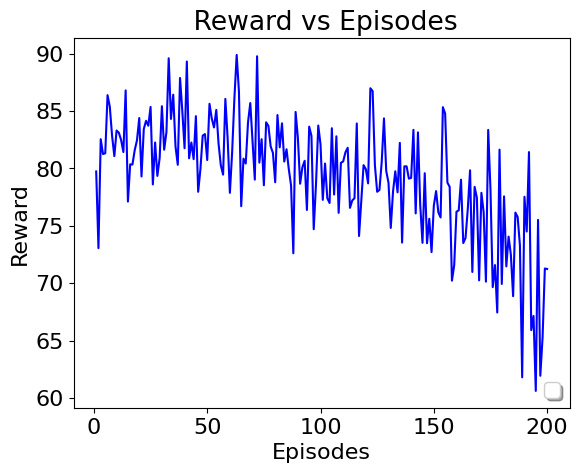
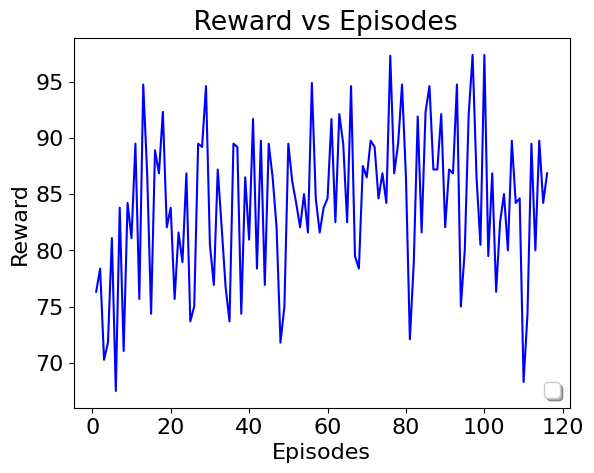
got good results by keeping the same graph during all the simulation, testing now for 600 steps/epi and 1600 end_time

diff --git a/Deep_QLearning_5G-master/view_results.py b/Deep_QLearning_5G-master/view_results.py
@@ -33,10 +33,14 @@ arrival_rate = "20"
 
 
 
-lost_r= [0.9635943347955631, 0.9639364955522162, 0.9583541990839156, 0.9630484665073595, 0.9665691099986501, 0.9634258210432834, 0.962947138627546, 0.9605807795436274, 0.9611619145500798, 0.964606163801482, 0.9629174908484893, 0.9641324454441789, 0.9631590996190776, 0.9625207824675401, 0.9652480249351258, 0.9626642604372606, 0.963296352650276, 0.9599739008366549, 0.9633715084109875, 0.9646056163625255, 0.9597369555284312, 0.9615778940798636, 0.9647218154443615, 0.9586525477351066, 0.9623772224014493, 0.9604195392690866, 0.9626235636256154, 0.9615493793703629, 0.963236199590829, 0.9609612566337582, 0.9625144703607895, 0.9648661852759469, 0.9649295399058254, 0.9605831228793025, 0.9620333000375806, 0.9612109938301611, 0.961915958675205, 0.9638390378837647, 0.9615252628821289, 0.9613409480734132, 0.9635345085009537, 0.9648615987576117, 0.9669946759140423, 0.962361954030914, 0.9662416037199812, 0.9579446064646129, 0.9664775312237356, 0.9649288772555198, 0.9627855792030059, 0.9645618626041254, 0.9644776631532832, 0.9659792858920428, 0.9602225541512417, 0.9642586952595583, 0.9610125019911014, 0.961488361798634, 0.9651547060970243, 0.9642970634481541, 0.9612981547314182, 0.960908632550447, 0.96213809951236, 0.9631768952695328, 0.9632300195991146, 0.9655341620561962, 0.9603049575542754, 0.962540345208385, 0.9660251050722866, 0.9636586185527558, 0.961895351267172, 0.9610892424347108, 0.9589419859486678, 0.9604280565317032, 0.9591661029346101, 0.9627577617279908, 0.9606973187393466, 0.9658829749180513, 0.96417301874081, 0.9633281137899083, 0.9599504210476403, 0.9647126454884625, 0.9676721752174745, 0.9621040122937993, 0.9645328195142328, 0.9661679849626392, 0.9622282627372718, 0.9620496971061632, 0.9611037950519362, 0.9609483898432447, 0.9624289198330374, 0.9648374692613976, 0.9614502394243402, 0.9618316247821722, 0.961567582691738, 0.9617587988632799, 0.9600278890148578, 0.9648274492295241, 0.9623526644490573, 0.9672046711979926, 0.9607444750433966, 0.9671846727861759]
+lost_r= [0.9685530744008225, 0.9614806783345682, 0.9641475740137646, 0.9601334401741869, 0.9683471364149451, 0.9654322357947753, 0.9685019419336854, 0.9614894456389519, 0.976397417444294, 0.9637358804546621, 0.9662393399261556, 0.9522540021784195, 0.9581715450049152, 0.9623470092011746, 0.9600146586290524, 0.9672471093554955, 0.9659797645575292, 0.9533208486779284, 0.9635349067279264, 0.9679367454403656, 0.9629044186807797, 0.963745017877416, 0.9609812230535408, 0.9621636274120198, 0.9622459901812522, 0.9671080720497194, 0.9607539586815321, 0.9606019853219597, 0.9668292842111431, 0.9629849184507706, 0.9482888905194478, 0.9652172897202544, 0.9606705405270763, 0.971437969574685, 0.9775822235396063, 0.9627549129067505, 0.9667167808769467, 0.963691253611363, 0.9626658019713241, 0.9689835233129882, 0.9567862355275405, 0.9689917478358401, 0.9662264991683405, 0.9666781046559003, 0.9657255804646053, 0.9707603026543892, 0.9656203405953406, 0.9573353322051411, 0.9662537089156696, 0.9603139957681971, 0.9613573401326122, 0.9619195638155803, 0.9636664671318547, 0.9610306442450989, 0.9636511986025751, 0.9720033448124393, 0.9543326340029611, 0.9705417007316591, 0.9615162678382629, 0.9586048800556629, 0.9588158720011237, 0.9668349810137291, 0.9565795007306692, 0.9744044598275626, 0.9720412262673508, 0.9612911524886995, 0.9668567645614902, 0.964467297961609, 0.9750830828515825, 0.9669722565655855, 0.9703001279698055, 0.9688440500662707, 0.9631605191469346, 0.9622199276684156, 0.968972581433355, 0.9629069967950223, 0.9577068155348935, 0.9659662272390073, 0.9679045465618716, 0.9575660081734186, 0.9647677796530183, 0.9633403055089154, 0.9648140593011786, 0.9671515589584991, 0.970473530616824, 0.9632862549402144, 0.9552110204763683, 0.9626159232912712, 0.964148710961017, 0.9551732010505216, 0.9653588970993463, 0.9689408942562816, 0.9704457963745637, 0.9686204943142943, 0.967704460974591, 0.965912470510365, 0.9664468937366669, 0.9585239357030851, 0.9626389015536462, 0.9647634889476766, 0.9659194077459646, 0.9584104025250718, 0.9599355299982916, 0.9600401526605721, 0.9665685929572558, 0.9582631843517679, 0.9686801666139828, 0.9584512143198806, 0.9578367980853245, 0.9783355169983157, 0.9547104486438603, 0.9572375100018656, 0.9626318654936781, 0.9706538144246204, 0.9619451000518685, 0.9559799130495336]
 
 
-lost_r_old = [79.63800904977376, 72.96137339055794, 82.44897959183673, 81.15384615384616, 81.22448979591836, 86.28318584070797, 85.28138528138528, 82.75862068965517, 80.97345132743364, 83.203125, 83.01158301158301, 82.37704918032787, 81.32780082987551, 86.69724770642202, 77.01612903225806, 80.25751072961373, 80.24193548387096, 81.49606299212599, 82.35294117647058, 84.2911877394636, 79.2, 83.33333333333334, 84.05172413793103, 83.62068965517241, 85.2589641434263, 78.50877192982456, 82.15767634854771, 79.25311203319502, 80.80000000000001, 85.3211009174312, 81.53153153153153, 83.06451612903226, 89.49771689497716, 84.21052631578947, 86.32478632478633, 81.81818181818183, 80.21978021978022, 87.78280542986425, 84.91379310344827, 81.6593886462882, 89.21161825726142, 80.78602620087337, 82.15767634854771, 80.70866141732283, 84.45378151260505, 77.8688524590164, 79.84496124031007, 82.75862068965517, 82.89473684210526, 80.63241106719367, 85.53191489361703, 84.25196850393701, 83.46774193548387, 85.0, 82.0627802690583, 80.16877637130801, 79.36507936507937, 85.95744680851064, 82.5531914893617, 77.77777777777779, 81.33333333333333, 86.05577689243027, 89.7872340425532, 86.58008658008657, 76.61290322580645, 80.75471698113208, 80.32786885245902, 83.91304347826087, 85.59670781893004, 82.30088495575221, 78.9272030651341, 89.67136150234741, 80.40816326530611, 82.44897959183673, 78.43866171003717, 83.92156862745098, 83.6, 81.81818181818183, 81.25, 78.69565217391305, 84.5528455284553, 81.73913043478261, 83.82978723404256, 80.49792531120332, 81.56862745098039, 79.84189723320159, 78.4090909090909, 72.50996015936255, 84.82142857142857, 82.5910931174089, 78.57142857142857, 80.0, 80.5668016194332, 76.28458498023716, 83.53909465020575, 82.73092369477911, 74.609375, 78.51239669421489, 83.63636363636363, 81.99233716475096, 77.16535433070865, 80.32786885245902, 77.3076923076923, 76.89243027888446, 83.40425531914893, 77.63157894736842, 82.70042194092827, 76.03305785123968, 80.3921568627451, 80.50847457627118, 81.30841121495327, 81.70212765957446, 76.47058823529412, 77.10843373493977, 77.31092436974791, 83.81742738589212, 74.01574803149606, 77.04918032786885, 80.18867924528303, 79.84189723320159, 78.60082304526749, 86.88524590163934, 86.63793103448276, 80.16877637130801, 77.8688524590164, 78.02690582959642, 80.45112781954887, 84.25925925925925, 79.67479674796748, 78.66108786610879, 74.72118959107806, 77.88461538461539, 79.65367965367966, 77.82258064516128, 82.12765957446808, 73.44398340248964, 80.08474576271186, 80.08298755186722, 79.01234567901234, 79.07949790794979, 83.2618025751073, 75.98425196850394, 83.04347826086956, 76.73469387755102, 73.42342342342343, 79.48717948717949, 73.38709677419355, 75.51867219917013, 72.61410788381743, 76.65369649805449, 77.92792792792793, 76.07843137254902, 75.63025210084034, 85.23809523809524, 84.68085106382979, 78.66666666666666, 78.29787234042553, 70.12987012987013, 71.4859437751004, 76.13168724279835, 76.25, 78.9237668161435, 73.40425531914893, 73.84615384615385, 76.39484978540773, 79.74137931034483, 70.88607594936708, 78.29787234042553, 77.36625514403292, 70.15503875968993, 77.77777777777779, 76.06837606837607, 70.04048582995951, 83.2579185520362, 78.11158798283262, 69.56521739130434, 71.4859437751004, 67.35537190082644, 81.53846153846153, 69.84126984126983, 77.4703557312253, 71.37096774193549, 73.96694214876032, 72.39819004524887, 68.77637130801688, 76.05633802816901, 75.67567567567568, 73.22175732217573, 61.71003717472119, 77.431906614786, 74.40944881889764, 81.32780082987551, 65.82278481012658, 67.05882352941175, 60.526315789473685, 75.42372881355932, 61.84738955823293, 65.18218623481782, 71.1864406779661, 71.14624505928853]
+lost_r_old = [0.9580515766348305, 0.9747608835264678, 0.9690392264387427, 0.9673748137090085, 0.9631347996660501, 0.9544880881423876, 0.9553358837484024, 0.9647164601581008, 0.9605163249912212, 0.976791630831353, 0.9687767671162291, 0.9587368484093538, 0.9647518695378375, 0.9707206728430783, 0.9617602255096621, 0.963603982287206, 0.9603031415302363, 0.9699469503270337, 0.9526345885982311, 0.9611070457681389, 0.9630708115401595, 0.9615108748251162, 0.9695549489016265, 0.9603005835891765, 0.9735964022631781, 0.9595204166602459, 0.9657951080451124, 0.9701460301287002, 0.9734447379526089, 0.9533986739393878, 0.9624291061371929, 0.9633356990084094, 0.9647917503002416, 0.9715036815805184, 0.959371341406969, 0.9669004321850615, 0.9621294672797742, 0.9689572430582499, 0.9653432175462648, 0.9624951458905484, 0.9653602188295077, 0.9702868107711559, 0.9661242243131944, 0.9645374912404591, 0.9758657079428082, 0.9633735064772626, 0.9689904014091739, 0.9662934036934673, 0.9608386241574975, 0.9551675550194116, 0.9680806573777613, 0.9678033644331824, 0.9656597600475204, 0.961860757950783, 0.9671488152942893, 0.9569334285663104, 0.964589879858642, 0.9605962603152574, 0.9605771160929696, 0.952259137339851, 0.9608755210659922, 0.9631861914959865, 0.9592478688464009, 0.9662808668909998, 0.9705211514482484, 0.9547881639116653, 0.963744874196037, 0.961417589118465, 0.9475175306473225, 0.9588076891570475, 0.9618869806316463, 0.9529810313079865, 0.9777578194536443, 0.9718011350015043, 0.9490542209985549, 0.9699426119117294, 0.9629849785411034, 0.9720240198952524, 0.9562349669171674, 0.9699391558769925, 0.9634571869414146, 0.9655231231174229, 0.9656732969190794, 0.9654257011254787, 0.9586558564016481, 0.9589239051928234, 0.9702739383042378, 0.9756078585375046, 0.968627542980699, 0.9607133795713079, 0.9656503242031834, 0.9593112293093637, 0.9687304720651452, 0.9642936511281285, 0.9668250589703354, 0.9555729642019177, 0.9676557839484229, 0.9579826871384524, 0.9584744961838767, 0.9613921942200006, 0.9657804121073963, 0.9685386894529238, 0.9615544908493088, 0.9651466857874805, 0.9620308107136378, 0.9642400526683723, 0.9760972635504345, 0.9532845033552939, 0.9595852611558532, 0.9684593696789623, 0.9634139833068598, 0.9661742738469498, 0.9603373973644755, 0.9589089117933066, 0.9672630083558575, 0.9645756649459837, 0.9619106877615704, 0.9610827775703776, 0.9729918901807201, 0.9661185341161173, 0.967385143219668, 0.9689293968956452, 0.9626255794880416, 0.9716414731886029, 0.9563410774476264, 0.966395007364635, 0.9572180942949515, 0.9574991723465386, 0.9650815299093956, 0.958768252073955, 0.967905060057933, 0.9644083826076216, 0.9685456466887477, 0.9516130160892825, 0.9757294970039425, 0.9662354924226417, 0.9651618375402992, 0.9655374306174277, 0.9664337982882925, 0.9697251925080316, 0.9692936258510518, 0.9586216521948956, 0.9507310496304743, 0.9685846643317215, 0.9748323670588105, 0.9662870582817786, 0.9643579330868459, 0.9663060931440903, 0.9531169040005573, 0.9676267785545016, 0.9545138116663994, 0.9707360387248836, 0.9604362714289809, 0.9592754840852555, 0.9655027812068695, 0.9734914933037964, 0.9697608697246398, 0.9683873449008786, 0.9610126735966988, 0.9709747238010438, 0.9628712352168025, 0.956366924331321, 0.957978674069165, 0.9647837110362505, 0.9584070037981933, 0.9717743538063806, 0.9689709515657282, 0.9645743415797053, 0.9539187640615022, 0.9678521690504319, 0.9623170327842309, 0.9676154343571888, 0.9624012165322348, 0.9560732748946662, 0.9638467299596367, 0.9599386515379021, 0.962343954591179, 0.9721001012543039, 0.9686954434895613, 0.9554518090205267, 0.965174179172578, 0.9738480888985888, 0.9636804243550118, 0.970881877375997, 0.9655286403331969, 0.9531198670702093, 0.9642952894389446, 0.9593666276585702, 0.9666858097769591, 0.9690907982053103, 0.9706270672298865, 0.9676139659586914, 0.9648660666930097, 0.9687260894660099, 0.9714721979290459, 0.9614993397263084, 0.9560632075379765, 0.9494050885172567, 0.964418859859236, 0.9606175666604326, 0.9646713331301944, 0.9567496153104135, 0.9613637530622549, 0.966329824814684, 0.9598870056115915, 0.9670485509062349, 0.9619997523620926, 0.9628807450440718, 0.974232527639723, 0.9726447643087469, 0.9574851218743311, 0.9622187494299032, 0.9625888934588129, 0.9700586474215928, 0.9666170961204289, 0.9550463805584427, 0.9736344049897493, 0.9545659213100359, 0.958086658192746, 0.9619376897194042, 0.9653097676595691, 0.9531180651868814, 0.9652447615516021, 0.9625373889531187, 0.9647750319976567, 0.9676380174179926, 0.9711295651216727, 0.9505409391988181, 0.9566143286665897, 0.9715120585055305, 0.964856405819361, 0.9667368236673424, 0.9674772926996014, 0.9682970382441503, 0.9690988109614727, 0.962379018333107, 0.958598843999302, 0.964938296685491, 0.9641201377205318, 0.9732373280800858, 0.9581376683965408, 0.9553862688120711, 0.966063754666362, 0.962206654422947, 0.9607277537027294, 0.96492336880141, 0.9513502711142924, 0.963475521429302, 0.9665707559511078, 0.955110090595176, 0.9560778118421505, 0.960701271061354, 0.9622925344485195, 0.9676318556479873, 0.9611257019590673, 0.9596677633770772, 0.9596279184427841, 0.9640219258160674, 0.9721457326409597, 0.9689144178875272, 0.9622229670075858, 0.9573752628987968, 0.9585773528782756, 0.9732688548889169, 0.9608915273867502, 0.9629560001292666, 0.9688183456073335, 0.9617051725986553, 0.958436850023663, 0.9717148227876502, 0.9684853686388857, 0.9723773008511059, 0.9580402436050087, 0.9501097670160569, 0.9697153588055707, 0.967458128996464, 0.9556927223349209, 0.9636750818378214, 0.9717104435321093, 0.964856249556161, 0.9581072565146296, 0.96771949527079, 0.9615538856729136, 0.9653393874559906, 0.9653744573230455, 0.958963824707425, 0.9669901289967051, 0.9605981223622283, 0.9601578747109764, 0.9661931268422989, 0.9572180803108923, 0.9630737518253416, 0.9709891272245, 0.9657598654824331, 0.9573129112259611, 0.9673292459125836, 0.9530462045794479, 0.9683718869690762, 0.964063356415534, 0.9646108368701073, 0.9641816150138828, 0.9639686698583247, 0.9566591992814156, 0.9688598818663794, 0.9714538419566939, 0.9634009985615114, 0.960443728457403, 0.9629736079256934, 0.9725889804523133, 0.9627627357254854, 0.9694401539403887, 0.9635172156752864, 0.9541455342374487, 0.9618673764395952, 0.9607675343671602, 0.9690753882558961, 0.9673633753748807, 0.9617832438519038, 0.9729628213524116, 0.9675305906293417, 0.9682664224549482, 0.9644317813237543, 0.973453877830508, 0.9584371707781035, 0.9744229872685672, 0.965833349328494, 0.9694834532452085, 0.9759638966932257, 0.9656065108058154, 0.9541358760968323, 0.9607950493343813, 0.9686403516802145, 0.9600517270654255, 0.966089613878813, 0.9640984610629442, 0.9682391029802876, 0.9676331997540766, 0.9700386294034613, 0.9593098377349741, 0.9658130190012773, 0.9725009101878274, 0.9563584380453558, 0.9608128172532512, 0.9677240008585297, 0.9554529780839971, 0.9647428590645464, 0.9599803206952322, 0.9581914343887293, 0.9647356693595022, 0.9584262841377578, 0.9682255304056165, 0.9563501974478172, 0.9579584862936181, 0.9599293215043697, 0.9669073603426803]
+
+
+
+
 
 
 font = {'family' : 'sans-serif',
@@ -45,11 +49,11 @@ matplotlib.rc('font', **font)
 
 
 
-#for i in range(200):
-#    x.append(i+1)
+for i in range(355):
+   x.append(i+1)
 
 
-for i in range(120):
+for i in range(116):
     y.append(i+1)
 # Profit
 
@@ -58,25 +62,10 @@ margin_error1 =[]
 lost_r_old_2 =[]
 
 
-for i in range(200):
-    x.append(i+1)
-    
-    #Profit (SARA, NR, AAR) x episodes, 
-    #margin_error1.append(1.96*standardDev(lost_r_old[i])/math.sqrt(100))
-    #lost_r_old[i] = average(lost_r_old[i])
-    lost_r_old_2.append(lost_r_old[i]+0.1)
 
 
-
-
-
-
-
-
-
-
-#plt.errorbar(x,lost_r,fmt="-", color="blue",ecolor="lightgray",capsize=2)
-plt.errorbar(x,lost_r_old_2,fmt="-", color="blue",ecolor="lightgray",capsize=2)
+plt.errorbar(x,lost_r_old,fmt="-", color="red",ecolor="lightgray",capsize=2)
+plt.errorbar(y,lost_r,fmt="-", color="blue",ecolor="lightgray",capsize=2)
 
 
 
@@ -93,7 +82,7 @@ plt.title(' Reward vs Episodes')
 plt.legend(fontsize = 14,loc='lower right', fancybox=True, shadow=True)
 # plt.legend(loc='upper center', bbox_to_anchor=(0.5, 0.1), fancybox=True, shadow=True, ncol=3)
 #plt.show() 
-plt.savefig("Amel_2.png",bbox_inches = 'tight') 
+plt.savefig("Amel_3.png",bbox_inches = 'tight') 
 plt.close()
 
 

diff --git a/Deep_QLearning_5G-master/main_deepsara.py b/Deep_QLearning_5G-master/main_deepsara.py
@@ -604,7 +604,7 @@ def func_arrival(c,evt): #NSL arrival, we will treate the one URLLC request arri
                 last_reward = r
 
 
-        if sim.nb_steps == 200:
+        if sim.nb_steps == 600:
 
             #f = open("deepsara_"+ "_10BA_300epi_run-time4.txt","a+")
             episode_profit = sum(sim.list_profit) / len(sim.list_profit) 
@@ -818,7 +818,7 @@ def main():
                 centralized_initial = controller.substrate.graph["centralized_cpu"]
                 bw_initial = controller.substrate.graph["bw"]
 
-                controller.simulation.set_run_till(100)   ## set the run_till variable of SIm to 15, the end of the simulatin is after 15 time units
+                controller.simulation.set_run_till(1600)   ## set the run_till variable of SIm to 15, the end of the simulatin is after 15 time units
                                                         ## initially was 15
                 prepare_sim(controller.simulation)   ## creates the arrival events and the twindow_end event to prepare the environment          
                 controller.run()    ## runs all the events of the list one by one, here we execute the run of the class SIm, and a function for each event  
